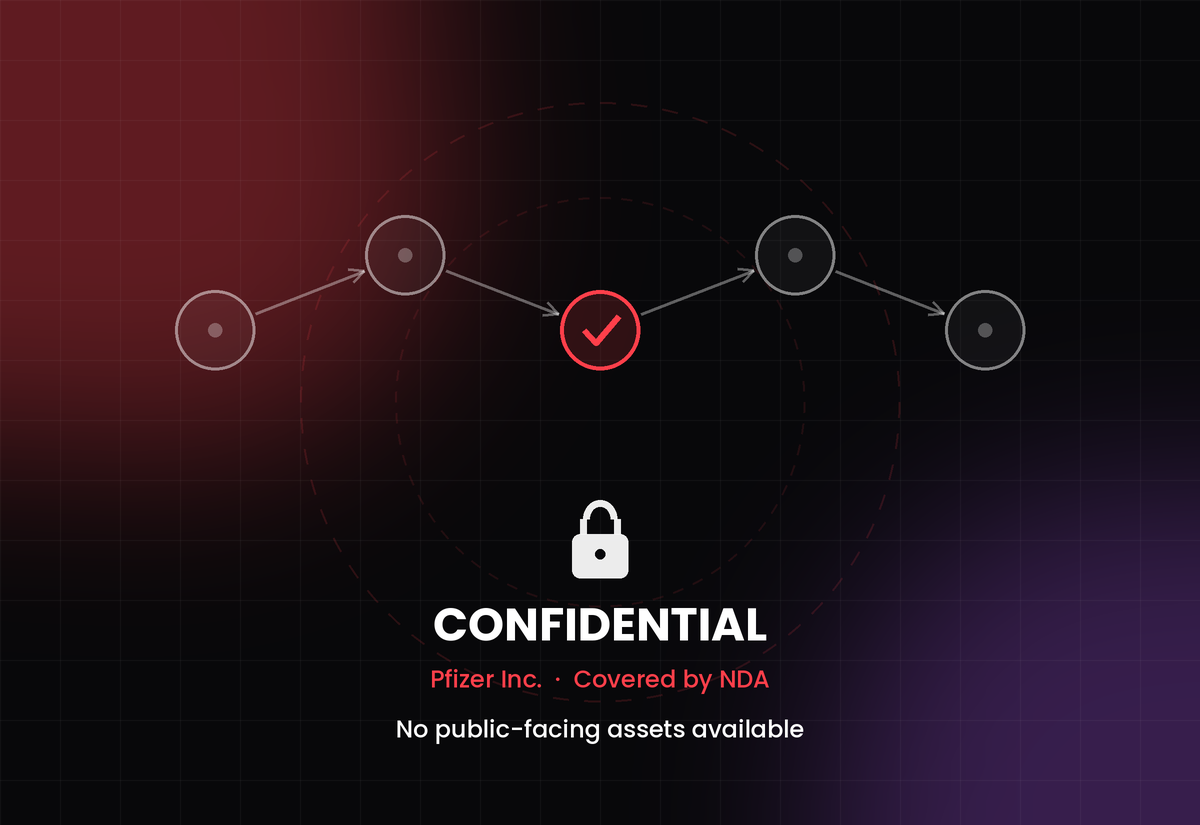
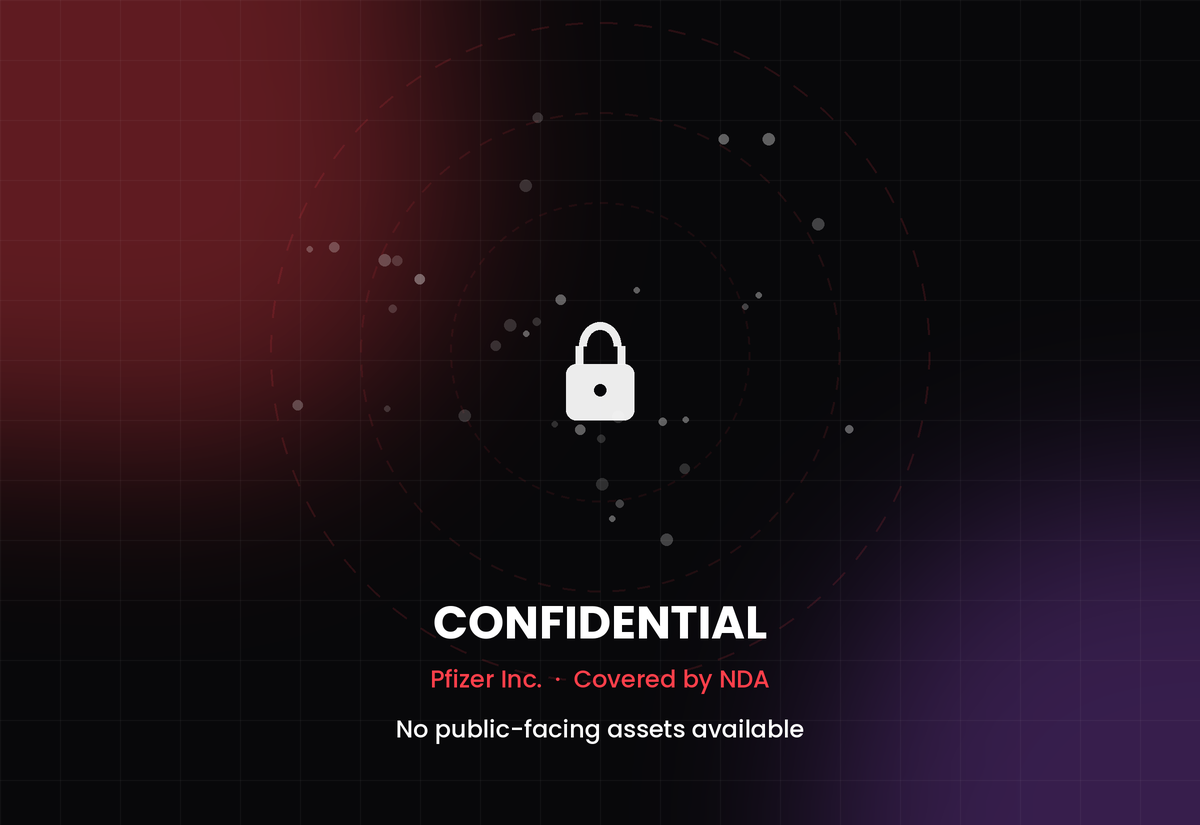
Release v4.3.1 (#152)
* refactor: improve spacing and remove unnecessary comments

* feat: add gulp and env variables

* feat: add github worflows deploy config

* feat: add gh pages dependency

* refactor: change token env name

* feat: add configure git email and name

* refactor: remove github token

* refactor: add new token

* refactor: change email and name

* refactor: change to peace iris

* refactor: add github token

* refactor: change env variables to their values

* refactor: remove scripts using gulp and gh pages

* refactor: remove github workflow

* refactor: remove github workflows

* style: add head icon and improve logo (#46)

* refactor: improve responsiveness of landing section

* refactor: improve about section responsiveness

* refactor: change font size to 2.7 rem

* fix: improved column structure flex and removed translation

* feat: added fade in transition and improved messenger icon

* style: center picture and  add max width 700 px

* refactor: improved about me section caption

* fix: add display inline block and margin auto

* feat: add gulp and dotenv on staging

* fix: rename to gulpfile to fix build error

* fix: add margins and max widths

* fix: remove carousel picture fixed height and width

* fix: improve project section cards responsiveness

* fix: improve project section modals responsiveness

* refactor: clean up code and add initial 451px media query

* fix: add header padding and increase font sizes

* fix: footer note and navbar toggler
[…]

diff --git a/index.html b/index.html
@@ -14,8 +14,8 @@
   <meta name="theme-color" content="#000000">
   <!-- apply the saved theme before first paint; with no saved choice, follow the system setting -->
   <script>try{var s=localStorage.getItem("theme");document.documentElement.dataset.theme=(s==="light"||s==="dark")?s:(matchMedia("(prefers-color-scheme: light)").matches?"light":"dark")}catch(e){document.documentElement.dataset.theme="dark"}</script>
-  <title>Jomar Granada</title>
-  <meta name="description" content="Software Engineering Portfolio Created with Love by Jomar Tabios Granada.">
+  <title>Jomar Granada | AI &amp; Full-Stack Software Engineer</title>
+  <meta name="description" content="Portfolio of Jomar Granada, an AI &amp; Full-Stack Software Engineer building AI-enabled apps, agentic workflows and clinical trial data tools with React, Node.js and Python.">
   <link rel="icon" href="images/brand2-jg-nobg-1195x752-v4.png" sizes="196x196">
 
   <!-- Fonts + icons (the only third-party assets left: no Bootstrap, jQuery or particles.js) -->
@@ -105,7 +105,7 @@
       <div class="wrap about-grid">
         <div class="photo-wrap rv" id="carousel-picture">
           <i class="disc" aria-hidden="true" data-depth="-22" data-speed="-.08"></i>
-          <div class="orbit" aria-hidden="true" data-rot=".05" data-orbit="Certified Full-Stack Web Developer • "></div>
+          <div class="orbit" aria-hidden="true" data-rot=".05" data-orbit="AI &amp; Full-Stack Software Engineer • "></div>
           <div class="photo carousel" id="about-carousel" aria-roledescription="carousel" aria-label="Photos of Jomar">
             <div class="slide active"><img src="./images/formal.jpg" alt="Jomar Granada in formal attire" data-speed=".05" data-max="30" decoding="async"></div>
             <div class="slide" aria-hidden="true"><img src="./images/avatar.jpg" alt="Jomar Granada avatar" data-speed=".05" data-max="30" loading="lazy" decoding="async"></div>
@@ -113,7 +113,7 @@
         </div>
         <div class="about-copy">
           <h2 id="about-me-header" class="sec-title rv">About Me</h2>
-          <p id="about-me-caption" class="rv">I am a certified Full-Stack Web Developer with three years of experience. Dedicated on crafting innovative and user-friendly web solutions. Welcome to my portfolio where you'll find my projects, tools, and expertise as I continue my programming journey.</p>
+          <p id="about-me-caption" class="rv">I am an AI &amp; Full-Stack Software Engineer with three years of experience building web applications and AI-enabled products, from multi-model chatbots to analytics tooling for clinical trial data. I work end to end with React, Node.js and Python, and I am a certified Full-Stack (MERN) Web Developer. Welcome to my portfolio, where you'll find my projects, tools, and expertise as I continue my engineering journey.</p>
           <ul class="socials" data-stagger>
             <li class="rv"><a class="mag" href="viber://chat?number=+639762255286" target="_blank" rel="noopener noreferrer" aria-label="Viber"><img src="./images/viber2.svg" alt="" width="56" height="56" loading="lazy"></a></li>
             <li class="rv"><a class="mag" href="https://m.me/JomarGranadaa" target="_blank" rel="noopener noreferrer" aria-label="Messenger"><img src="./images/messenger2.svg" alt="" width="56" height="56" loading="lazy"></a></li>
@@ -139,7 +139,7 @@
           <article class="card tilt rv card-nda" data-tilt="6" tabindex="0" role="button" aria-haspopup="dialog" data-name="p-9"><div class="card-media"><img src="images/project-work-5.png" alt="Placeholder image: Pfizer clinical trial AI agent, confidential and under NDA" loading="lazy" decoding="async" data-speed=".045" data-max="22"><span class="nda">Under NDA</span></div><div class="card-body"><h3>Pfizer — AI & Analytics for Clinical Supply Planning</h3><p class="stack">Confidential work. Project details, tools and implementation artifacts are not publicly shared.</p><p class="role">Role: Contractor — Data Analytics &amp; Reporting Support</p></div></article>
         </div>
         <div class="grid" data-stagger="2" data-col-speeds=".05,-.05" data-max="26">
-          <article class="card tilt rv" data-tilt="6" tabindex="0" role="button" aria-haspopup="dialog" data-name="p-4"><div class="card-media"><img src="./images/project-work-1.png" alt="AI-PRO preview" loading="lazy" decoding="async" data-speed=".045" data-max="22"></div><div class="card-body"><h3>AI-PRO</h3><p class="stack">React · TypeScript · Node.js · PHP (CodeIgniter) · Redis</p><p class="role">Role: Employee — Full-Stack Engineer</p></div></article>
+          <article class="card tilt rv" data-tilt="6" tabindex="0" role="button" aria-haspopup="dialog" data-name="p-4"><div class="card-media"><img src="./images/project-work-1.png" alt="AI-PRO preview" loading="lazy" decoding="async" data-speed=".045" data-max="22"></div><div class="card-body"><h3>AI-PRO</h3><p class="stack">React · TypeScript · Node.js · PHP (CodeIgniter) · Redis</p><p class="role">Role: Employee — Full-Stack Engineer, AI Integrations</p></div></article>
           <article class="card tilt rv" data-tilt="6" tabindex="0" role="button" aria-haspopup="dialog" data-name="p-3"><div class="card-media"><img src="./images/project-work-2.png" alt="Media Meter API preview" loading="lazy" decoding="async" data-speed=".045" data-max="22"></div><div class="card-body"><h3>Media Meter API</h3><p class="stack">Python · PHP · MongoDB · ElasticSearch</p><p class="role">Role: Employee — Backend Engineer</p></div></article>
           <article class="card tilt rv" data-tilt="6" tabindex="0" role="button" aria-haspopup="dialog" data-name="p-2"><div class="card-media"><img src="./images/project-work-3.png" alt="Tern preview" loading="lazy" decoding="async" data-speed=".045" data-max="22"></div><div class="card-body"><h3>Tern</h3><p class="stack">TypeScript · Node.js</p><p class="role">Role: Contractor — Full-Stack Engineer</p></div></article>
           <article class="card tilt rv" data-tilt="6" tabindex="0" role="button" aria-haspopup="dialog" data-name="p-1"><div class="card-media"><img src="./images/project-work-4.png" alt="Realboss preview" loading="lazy" decoding="async" data-speed=".045" data-max="22"></div><div class="card-body"><h3>Realboss</h3><p class="stack">TypeScript · Material UI · Node.js · AWS S3/CloudFront</p><p class="role">Role: Contractor — Full-Stack Engineer</p></div></article>
@@ -218,7 +218,7 @@
       <!-- Start of Footer -->
       <footer id="footer" class="wrap">
         <p class="ghost foot-ghost" aria-hidden="true" data-speed="-.1"><span>Jomar Granada</span><span>Jomar Granada</span><span>Jomar Granada</span></p>
-        <p>Web Developer Portfolio crafted by Jomar Granada © 2023 - <span id="yr">2026</span>. All rights reserved.</p>
+        <p>Portfolio crafted by Jomar Granada © 2023 - <span id="yr">2026</span>. All rights reserved.</p>
         <a href="#landing" class="btn-top mag">Back to Top</a>
       </footer>
     </section>

diff --git a/animations.js b/animations.js
@@ -157,13 +157,18 @@
   function startScramble() {
     const all = nameCh.concat(roleCh);
     if (!motion) { all.forEach((c) => c.classList.add('on')); return; }
-    const ws = all.map((c) => { c.style.width = ''; return c.getBoundingClientRect().width; }); // read…
+    // Measure the letters' REAL layout widths. If the visitor scrolled back up fast the letters are still scattered/rotated,
+    // and a rotated letter's bounding box is wider than the letter, so measure in a transform-free state.
+    hero.classList.add('measuring');
+    const ws = all.map((c) => { c.style.width = ''; return c.getBoundingClientRect().width; });    // read…
+    hero.classList.remove('measuring');
     const t0 = performance.now();
     all.forEach((c, i) => {                                                                      // …then write
       c.style.width = ws[i] + 'px';
       c._end = t0 + 100 + c._n * 60; c._done = false;
       c.classList.add('on', 'scr');
     });
+    measureTheme(); measureLetters();                                  // layout is now frozen: re-aim the toggle and the cursor reaction at it
     clearInterval(scrTimer);
     scrTimer = setInterval(() => {
       const now = performance.now(); let alive = 0;
@@ -172,7 +177,8 @@
         if (now >= c._end) { c.textContent = c.dataset.c; c.style.width = ''; c.classList.remove('scr'); c._done = true; }
         else { c.textContent = CHARSET[(Math.random() * CHARSET.length) | 0]; alive++; }
       }
-      if (!alive) { clearInterval(scrTimer); measureTheme(); measureLetters(); }
+      measureTheme();                                                  // cheap (13 letters): keeps the toggle on its letter even if fonts or layout change mid-scramble
+      if (!alive) { clearInterval(scrTimer); measureLetters(); }
     }, 50);
   }
 

diff --git a/index.css b/index.css
@@ -191,6 +191,8 @@ html:not(.js) .theme { display: none; }
   transform: translate3d(var(--tx, 0px), var(--ty, 0px), 0) scale(var(--sc, 1)); } /* pointer reaction */
 .ch.on { opacity: 1; transition-delay: calc(var(--i) * 45ms); }
 .ch.scr { text-align: center; }
+/* While widths are measured, letters must be un-scattered and un-rotated, otherwise their bounding boxes are inflated and the layout stretches. */
+.hero.measuring .ch { animation: none !important; translate: none !important; rotate: none !important; transform: none !important; }
 .name .ch { color: color-mix(in srgb, var(--red) calc(var(--f, 0) * 100%), var(--fg)); }
 .name .ch.on { animation: glow 7s ease-in-out infinite; animation-delay: calc(2.6s + var(--i) * .11s); }
 @media (pointer: coarse) { .name .ch.on { animation-name: pulse; } }   /* phones: colour pulse instead of a blurred shadow */
@@ -381,6 +383,7 @@ dialog::backdrop { background: rgb(0 0 0 / .6); }
   .d-media { position: sticky; top: 0; align-self: start; }
 }
 .detail h3 { padding-right: 3.2rem; font-size: clamp(2.2rem, 6vw, 5.2rem); line-height: 1; letter-spacing: -.02em; overflow-wrap: anywhere; }
+.detail h3.long { font-size: clamp(1.9rem, 4.4vw, 3.6rem); }
 .d-stack { margin: .9rem 0 1.6rem; font-style: italic; font-size: clamp(1rem, 1.8vw, 1.3rem); color: var(--dlg-mute); }
 .d-media img, .d-media video { width: 100%; height: auto; max-height: 70vh; object-fit: contain; border-radius: 20px; border: 5px solid var(--dlg-line); background: #111; }
 .d-links { display: flex; flex-wrap: wrap; gap: .8rem; margin-top: 1.4rem; }
